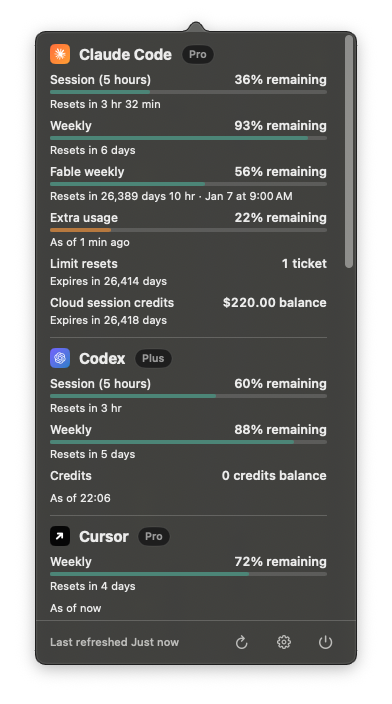
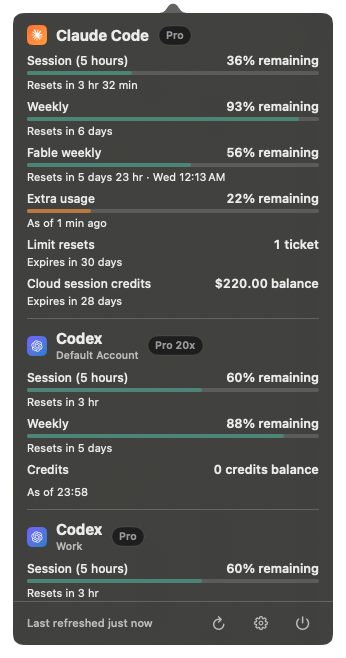
docs: rewrite README for 0.2.0 with new screenshots

diff --git a/README.md b/README.md
@@ -1,11 +1,13 @@
 # oh-my-openusage
 
-**Every coding-AI quota you pay for, one glance away in the macOS menu bar.**
+**See how much of every coding-AI plan you have left, right from the macOS menu bar.**
 
-oh-my-openusage is a native Swift menu-bar app that shows how much quota you
-have left across eleven coding-AI providers. It reuses the logins you already
-have, keeps every credential on your Mac, and needs no account or backend of
-its own. The app itself is named **OmoUsage**.
+oh-my-openusage is a native macOS app that collects the remaining quota of the
+coding-AI services you already pay for and shows it in one place: a menu-bar
+popover, an optional edge rail, a private web page, and an iPhone companion.
+It reuses the sign-ins you already have, keeps every credential on your Mac,
+and runs without an account or server of its own. The app is called
+**OmoUsage**.
 
 > Inspired by [OpenUsage](https://github.com/robinebers/openusage). This is an
 > independent project, not affiliated with or endorsed by OpenUsage.
@@ -13,30 +15,36 @@ its own. The app itself is named **OmoUsage**.
 <p align="center">
   <picture>
     <source media="(prefers-color-scheme: dark)" srcset="Docs/images/popover-dark.png">
-    <img src="Docs/images/popover-light.png" width="392" alt="OmoUsage popover listing remaining Claude Code, Codex, and Cursor quota with reset times">
+    <img src="Docs/images/popover-light.png" width="346" alt="OmoUsage popover showing remaining Claude Code and Codex quota with reset times">
   </picture>
 </p>
 
-<sub>All screenshots use the app's built-in fixture data, not a real account.</sub>
+<sub>Every screenshot uses the app's built-in sample data, not a real account.</sub>
 
-## Features
+## What you get
 
-- **Menu-bar popover.** A 320 pt native popover with one card per provider:
-  session and weekly windows, credits, spend, and when each one resets.
-- **Side Notch.** An optional edge rail with circular remaining-usage rings.
-  Point at a provider and its detail card slides in from the screen edge.
-- **Several accounts per provider.** Add a second Claude, Codex, or other
-  account and see them side by side.
-- **Reuses existing logins.** Most providers read the credential their official
-  CLI or app already stored. Only OpenRouter and Z.ai need an API key.
-- **Last good numbers stay.** Providers refresh independently every 60 seconds,
-  so one failing service never blanks the others.
+- **Menu-bar popover.** One section per account with session and weekly
+  windows, credits, spend, and when each one resets. The scroll bar appears
+  only while you scroll.
+- **Side Notch.** An optional rail on the screen edge with a remaining-usage
+  ring per account. Point at one and its details slide out beside it.
+- **Native Settings.** Five panes (General, Display, Web Access, Order, Auth)
+  in the standard macOS grouped style. Short panes fit their content; long
+  panes scroll inside the window.
+- **Several accounts per service.** Add a second Claude, Codex, or other
+  account and see them side by side, each with its own name.
+- **Your existing sign-ins.** Most services reuse the credential their official
+  app or CLI already stored. OpenRouter and Z.ai take an API key.
+- **Numbers that stay put.** Each service refreshes on its own every 60
+  seconds, so one failing service never blanks the rest; the last good numbers
+  stay with a clear "refresh failed" label.
 - **Private web dashboard.** The same usage in a browser at
-  `http://127.0.0.1:7827`, reachable from your other devices through
-  Tailscale Serve.
-- **iPhone companion.** A read-only iOS app that receives a sanitized usage
-  snapshot through your private iCloud.
-- **Korean and English.** Korean by default; switch in Settings.
+  `http://127.0.0.1:7827`, laid out for desktop and phone, and reachable from
+  your own devices through Tailscale Serve.
+- **iPhone companion.** A read-only app that shows the same numbers through
+  your private iCloud.
+- **Korean and English**, light and dark appearance, VoiceOver labels, and
+  Reduce Motion support throughout.
 - **In-app updates** through [Sparkle](https://sparkle-project.org).
 
 ## Screenshots
@@ -46,91 +54,101 @@ its own. The app itself is named **OmoUsage**.
     <td align="center" width="50%">
       <picture>
         <source media="(prefers-color-scheme: dark)" srcset="Docs/images/side-notch-dark.png">
-        <img src="Docs/images/side-notch-light.png" width="344" alt="Side Notch rail with usage rings and an expanded provider card">
+        <img src="Docs/images/side-notch-light.png" width="344" alt="Side Notch rail with usage rings and a Codex account's details">
       </picture>
       <br><sub>Side Notch</sub>
     </td>
     <td align="center" width="50%">
       <picture>
         <source media="(prefers-color-scheme: dark)" srcset="Docs/images/settings-auth-dark.png">
-        <img src="Docs/images/settings-auth-light.png" width="380" alt="Settings Auth pane showing connected accounts per provider">
+        <img src="Docs/images/settings-auth-light.png" width="360" alt="Settings Auth pane listing connected accounts per service">
       </picture>
       <br><sub>Settings › Auth</sub>
+    </td>
+  </tr>
+  <tr>
+    <td align="center" width="50%">
+      <picture>
+        <source media="(prefers-color-scheme: dark)" srcset="Docs/images/settings-general-dark.png">
+        <img src="Docs/images/settings-general-light.png" width="380" alt="Settings General pane with language, Launch at Login, and updates">
+      </picture>
+      <br><sub>Settings › General</sub>
+    </td>
+    <td align="center" width="50%">
+      <picture>
+        <source media="(prefers-color-scheme: dark)" srcset="Docs/images/iphone-dark.png">
+        <img src="Docs/images/iphone-light.png" width="240" alt="iPhone companion showing usage synced from the Mac">
+      </picture>
+      <br><sub>iPhone companion</sub>
     </td>
   </tr>
   <tr>
     <td colspan="2" align="center">
       <picture>
         <source media="(prefers-color-scheme: dark)" srcset="Docs/images/web-dashboard-dark.png">
-        <img src="Docs/images/web-dashboard-light.png" alt="Private web dashboard with one card per provider">
+        <img src="Docs/images/web-dashboard-light.png" alt="Private web dashboard with one card per account">
       </picture>
       <br><sub>Private web dashboard</sub>
-    </td>
-  </tr>
-  <tr>
-    <td colspan="2" align="center">
-      <picture>
-        <source media="(prefers-color-scheme: dark)" srcset="Docs/images/settings-general-dark.png">
-        <img src="Docs/images/settings-general-light.png" width="420" alt="Settings General pane with language, launch at login, and updates">
-      </picture>
-      <br><sub>Settings › General</sub>
     </td>
   </tr>
 </table>
 
 ## Install
 
-1. Download the latest `OmoUsage-<version>.zip` from
-   [Releases](https://github.com/floweredao/omoUsage/releases/latest).
+1. Download `OmoUsage-<version>.zip` from the
+   [latest release](https://github.com/floweredao/omoUsage/releases/latest).
 2. Unzip it and move `OmoUsage.app` to `/Applications`.
-3. Release builds are not notarized yet. On first launch, if macOS blocks the
-   app, open **System Settings › Privacy & Security** and choose
+3. Open it. Releases are not notarized, so the first time macOS may refuse to
+   open it: go to **System Settings › Privacy & Security** and choose
    **Open Anyway**.
 
-The app lives in the menu bar (no Dock icon). Click the gauge icon for the
-popover; the gear opens Settings, where each provider shows its connection
-state and can start its official sign-in. Later versions arrive through
+OmoUsage lives in the menu bar, with no Dock icon. Click the gauge icon for
+the popover; the gear opens Settings, where **Auth** shows every service's
+connection and starts its official sign-in. **Display** switches between the
+popover and the Side Notch. New versions arrive through
 **Settings › General › Check for Updates**.
 
-Requires macOS 15 or later on Apple silicon.
+Requires macOS 15 or later on Apple silicon. The iPhone companion requires
+iOS 18.
 
-## Supported providers
+## Supported services
 
-| Provider | How you sign in | What OmoUsage reads |
+| Service | How you sign in | What OmoUsage reads |
 | --- | --- | --- |
-| Claude Code | `claude auth login`, or sign in with your browser in Settings | `Claude Code-credentials` Keychain item, `~/.claude/.credentials.json`, or `CLAUDE_CODE_OAUTH_TOKEN` |
+| Claude Code | `claude auth login`, or sign in with your browser from Settings | `Claude Code-credentials` Keychain item, `~/.claude/.credentials.json`, or `CLAUDE_CODE_OAUTH_TOKEN` |
 | Codex | `codex login` | `~/.codex/auth.json` (honours `CODEX_HOME`) or the Codex Keychain item |
 | Cursor | Cursor app › Account | Cursor's local database |
 | Antigravity | Antigravity app or `agy` | `gemini` Keychain item |
 | Copilot | `copilot login` or `gh auth login` | `copilot-cli` Keychain item, `~/.config/gh/hosts.yml`, or an editor's OAuth token |
-| Devin | `devin auth login`, or browser sign-in in Settings | `~/.local/share/devin/credentials.toml` (honours `XDG_DATA_HOME`) |
+| Devin | `devin auth login`, or browser sign-in from Settings | `~/.local/share/devin/credentials.toml` (honours `XDG_DATA_HOME`) |
 | Grok | `grok login` | `~/.grok/auth.json` |
-| Kiro | Connect in Settings (reuses an existing login or opens browser sign-in) | Account-scoped Keychain credential or Kiro CLI's `data.sqlite3` |
+| Kiro | Connect from Settings (reuses an existing login or opens browser sign-in) | Account-scoped Keychain credential or Kiro CLI's `data.sqlite3` |
 | OpenCode | `opencode auth login` or an API key in Settings | OpenCode's `auth.json` plus local usage records |
-| OpenRouter | API key in Settings | OmoUsage-owned Keychain item |
-| Z.ai | API key in Settings | OmoUsage-owned Keychain item |
+| OpenRouter | API key in Settings | OmoUsage's own Keychain item |
+| Z.ai | API key in Settings | OmoUsage's own Keychain item |
 
-Providers you are not signed in to are hidden. Accounts you add in Settings get
-their own Keychain item, so a second account never rewrites the official CLI's
+Services you are not signed in to stay hidden. An account you add in Settings
+gets its own Keychain item, so it never overwrites the official CLI's
 credential.
 
 ## Privacy
 
-- Everything runs on your Mac. The app talks only to each provider's own usage
+- Everything runs on your Mac. OmoUsage talks only to each service's own usage
   API. There is no analytics, telemetry, or backend.
 - API keys you enter are stored in the macOS Keychain and are never shown
   again, synced to iCloud, or written to diagnostics.
 - The web dashboard listens on loopback only and serves the same sanitized
-  snapshot as the iPhone app: totals, plan labels, and reset times. It never
-  sends credentials, cookies, or file paths. To use it from another device,
-  proxy `127.0.0.1:7827` with Tailscale Serve inside your tailnet; do not
-  expose it with Tailscale Funnel or on a LAN interface.
-- The iPhone companion never sees provider credentials and never calls
-  provider APIs.
+  snapshot as the iPhone app: totals, plan names, and reset times. It never
+  sends credentials, cookies, or file paths, and every change it makes needs a
+  per-launch token. To open it from another device, proxy `127.0.0.1:7827`
+  with Tailscale Serve inside your tailnet; do not expose it with Tailscale
+  Funnel or on a LAN interface.
+- The iPhone companion never sees service credentials and never calls service
+  APIs.
 
 ## Build from source
 
-Requires the Swift 6.1 toolchain (Xcode 26).
+Requires the Swift 6.1 toolchain (Xcode 26) or later.
 
 ```sh
 swift build                 # debug build
@@ -139,30 +157,29 @@ sh Scripts/package-app.sh   # → dist/OmoUsage.app
 open dist/OmoUsage.app
 ```
 
-`package-app.sh` signs with an Apple Development certificate when your Keychain
-has one, so rebuilt copies keep their Keychain "Always Allow" grants. Without
-one it falls back to ad-hoc signing; pass `--adhoc` to force it.
+`package-app.sh` signs with the first Apple Development certificate in your
+Keychain, so a rebuilt copy keeps its Keychain "Always Allow" approvals. Without
+one it signs ad hoc; pass `--adhoc` to force that.
 
-Run with fake data, for example to take screenshots:
+To try the app with sample data, for example to take screenshots:
 
 ```sh
 OMO_USAGE_FIXTURE_MODE=1 swift run OmoUsage
 ```
 
-The iOS and Mac Catalyst companion targets are defined in `project.yml`
+The iPhone and Mac Catalyst companion targets live in `project.yml`
 (XcodeGen) and the checked-in `OmoUsage.xcodeproj`; SwiftPM builds only the
-macOS app and tests.
+macOS app and its tests.
 
 ## Documentation
 
-- [`DESIGN.md`](DESIGN.md): visual tokens, layout, motion, accessibility, and
-  the privacy contract the implementation follows.
-- [`RELEASE.md`](RELEASE.md): signing, notarization, Sparkle updates, and
-  iCloud team setup.
+- [`DESIGN.md`](DESIGN.md): the layout, tokens, motion, accessibility, and
+  privacy rules every screen follows.
+- [`RELEASE.md`](RELEASE.md): signing, Sparkle updates, and release steps.
 - [`THIRD_PARTY_NOTICES.md`](THIRD_PARTY_NOTICES.md)
 
 ## Acknowledgements
 
 - [OpenUsage](https://github.com/robinebers/openusage) for the idea and for
-  showing how each provider reports usage.
+  showing how each service reports usage.
 - [Sparkle](https://sparkle-project.org) for in-app updates.
